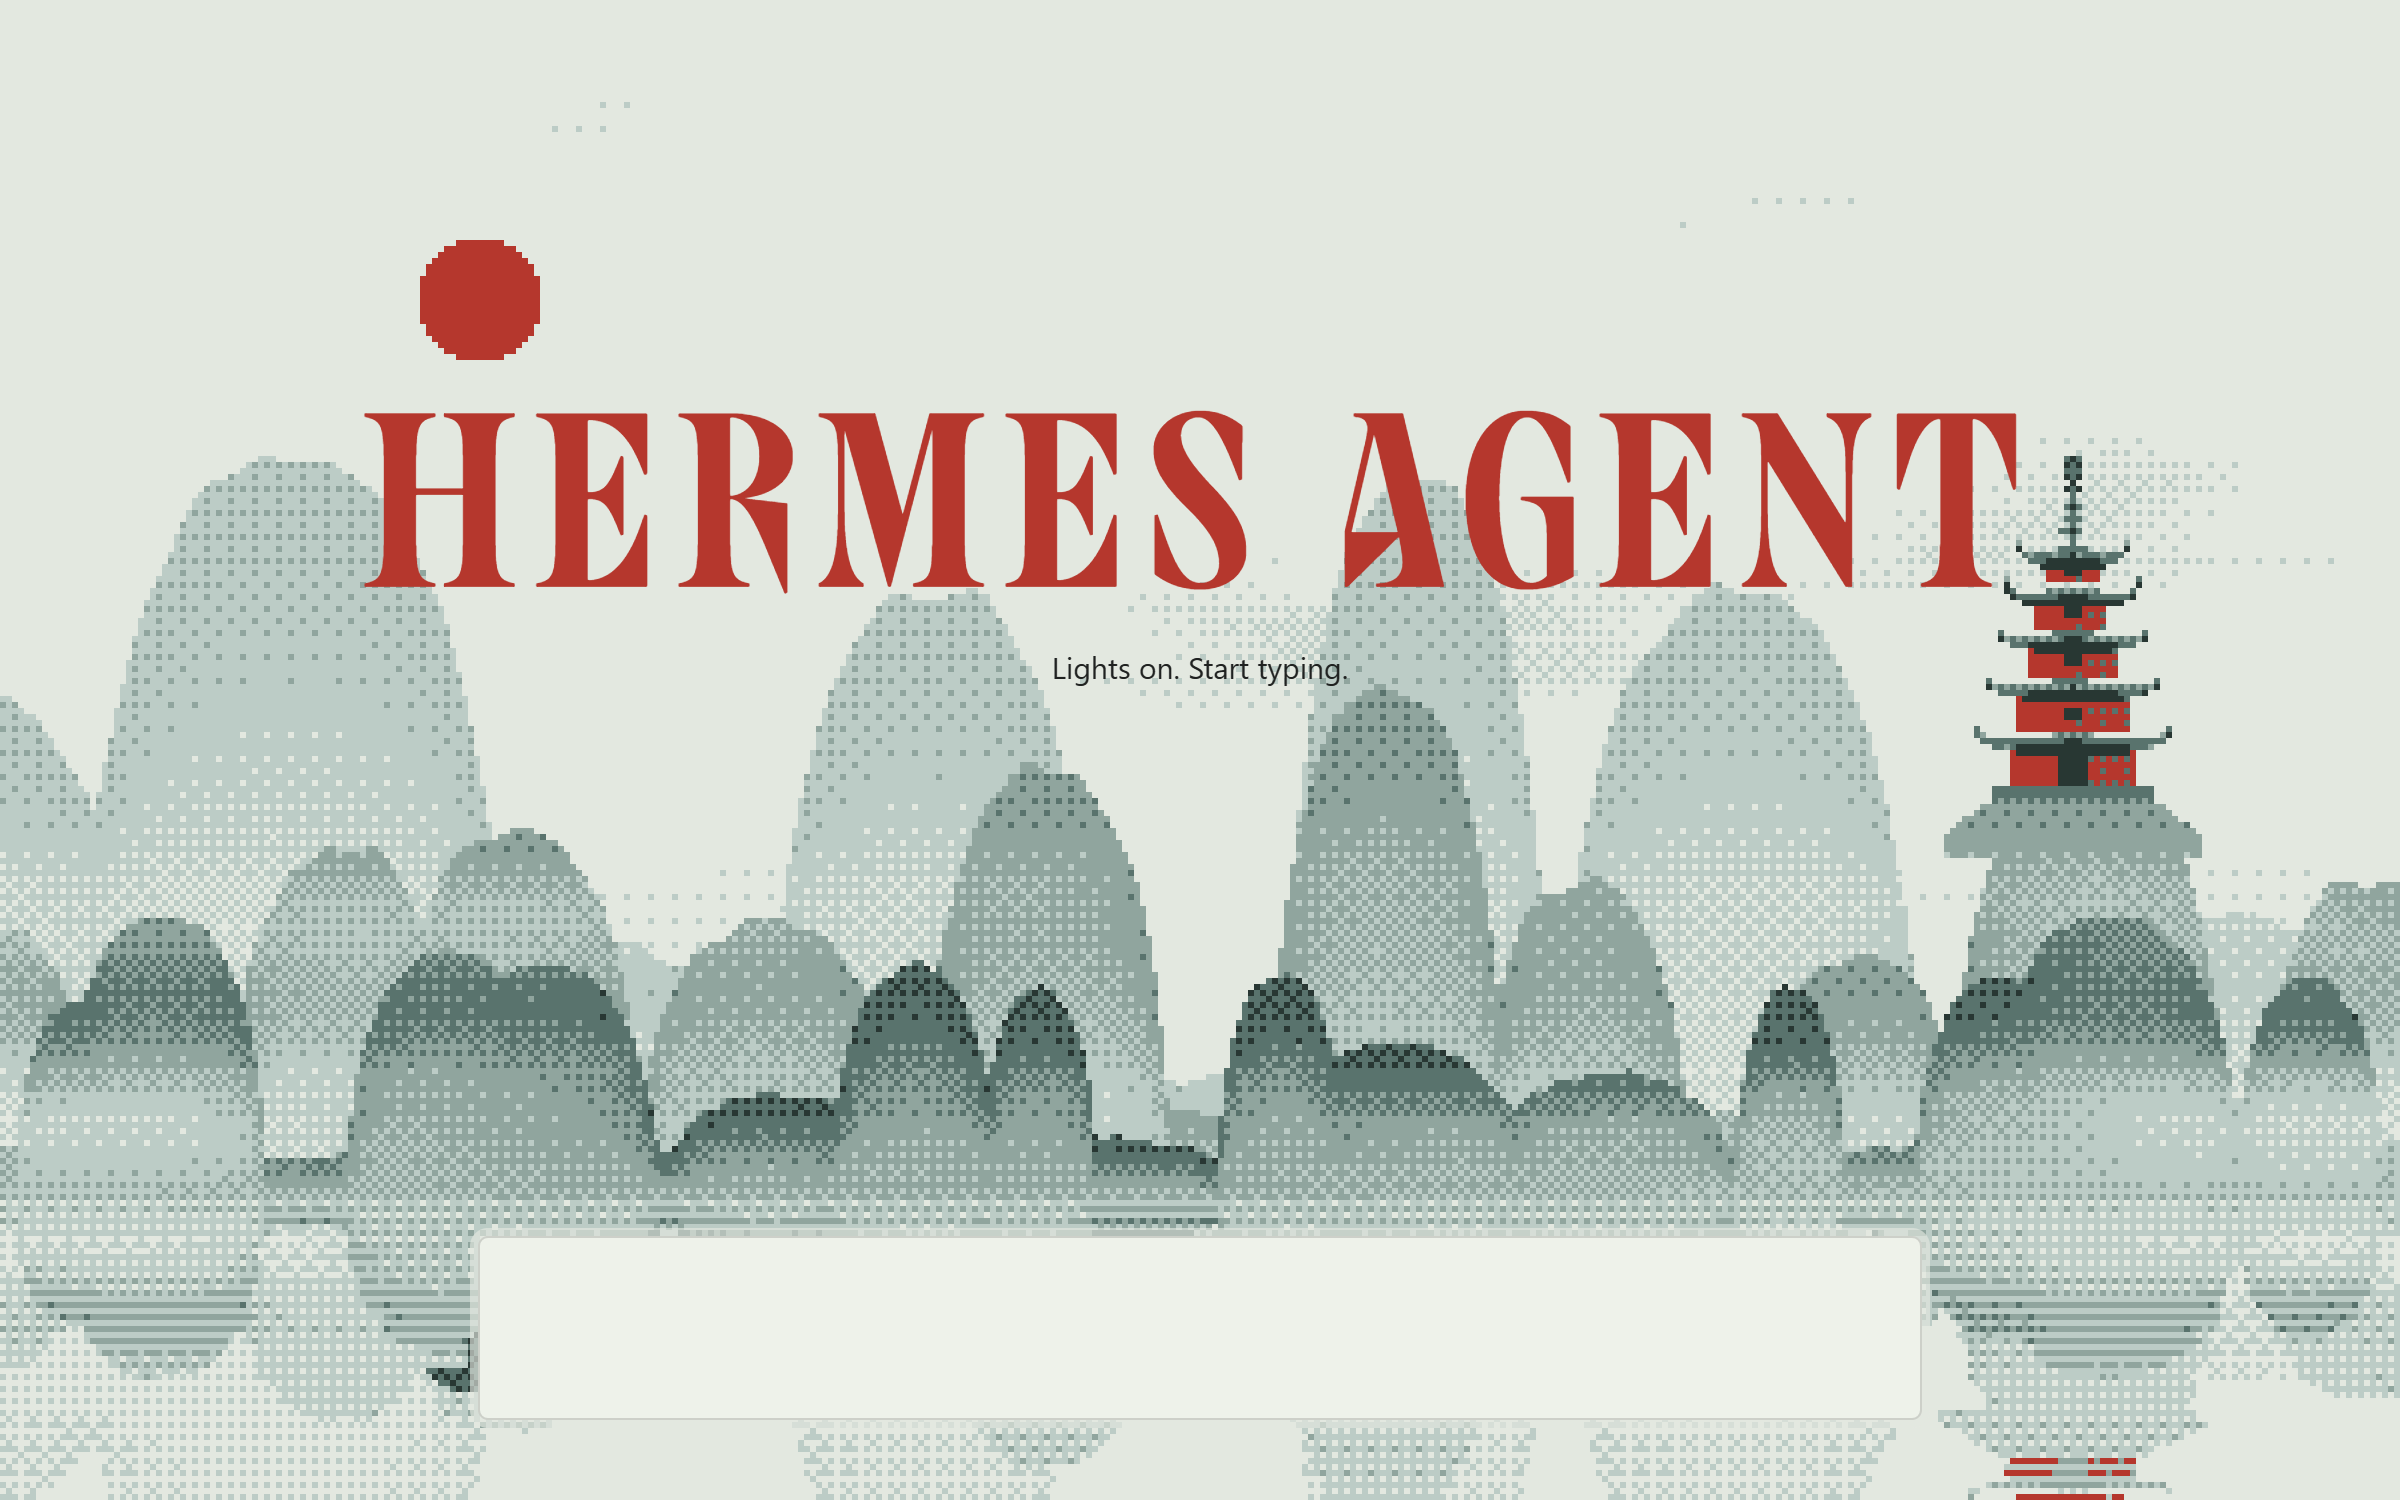
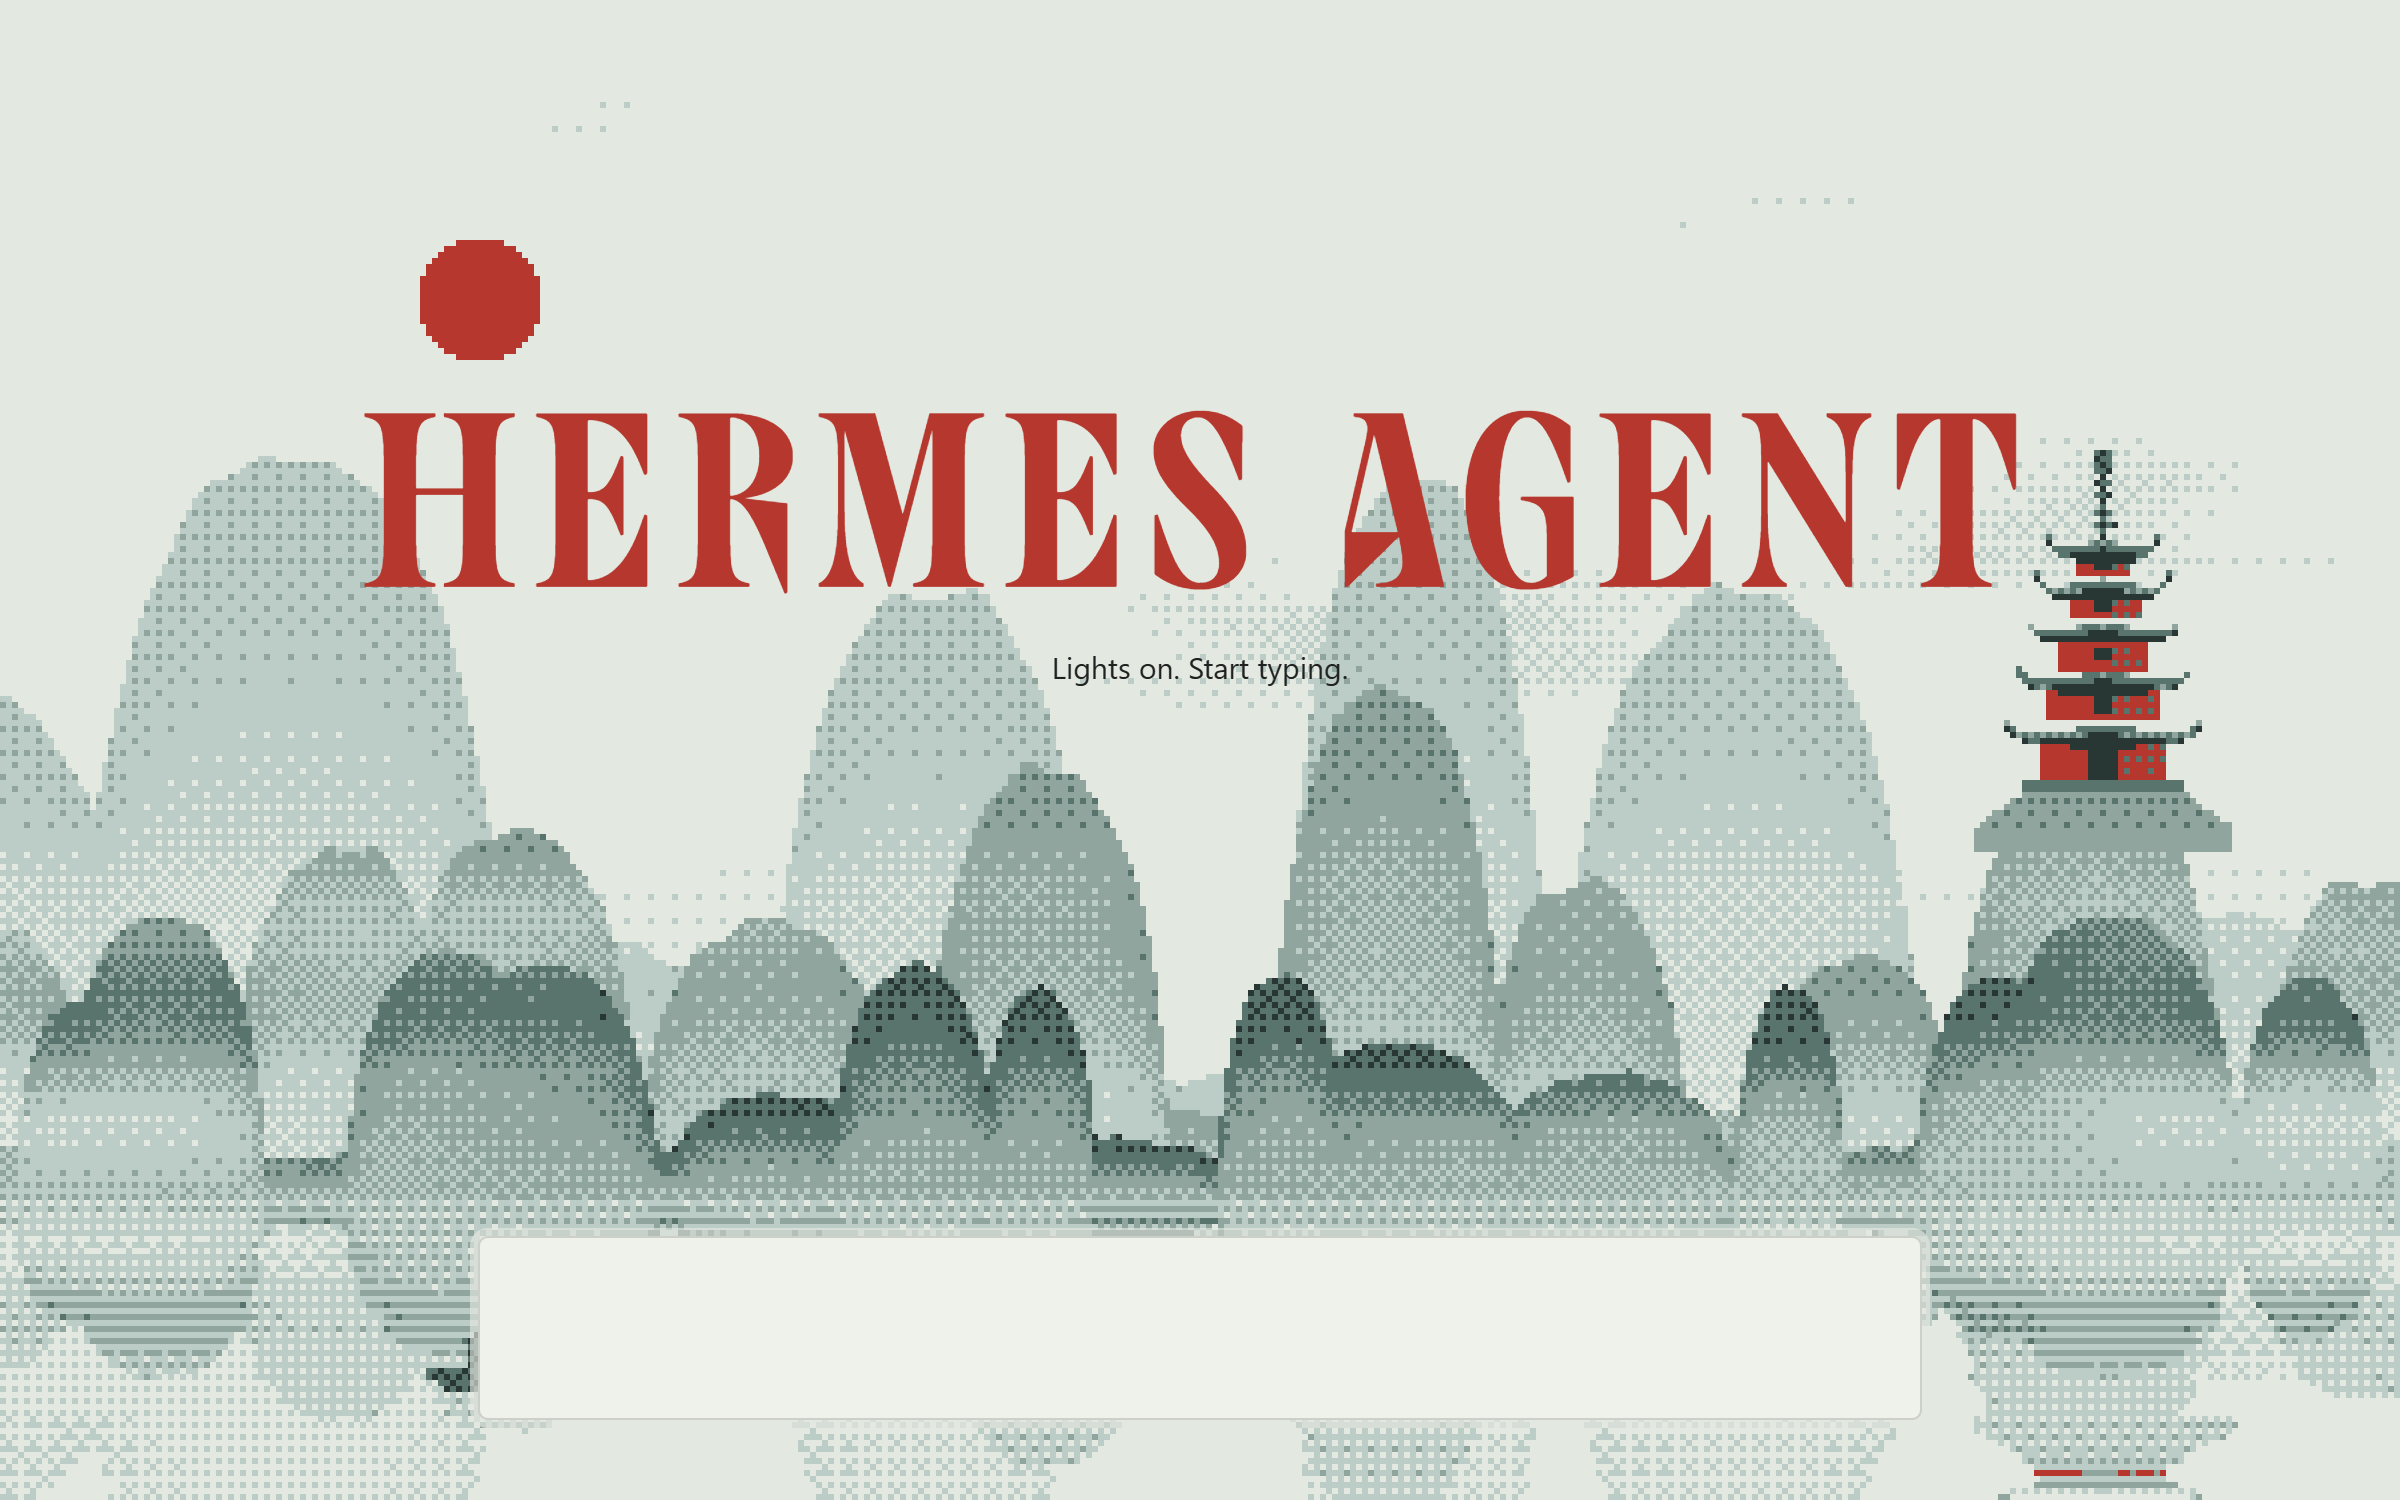
Keep the pagoda on one peak when the window is resized
Its crest search ran over a share of the window width, so a narrower window (a side pane, a resize) moved it to another peak. Search in scene units instead; test/pagoda_position.py checks the position across sizes, time and pointer.

Changed region(s): [[0.8125, 0.3067, 0.9375, 0.5827], [0.8125, 0.92, 0.9375, 1.0]]

diff --git a/desktop/plugin.js b/desktop/plugin.js
@@ -528,11 +528,13 @@ float scene(vec2 uv, float t, float rain, out float ground, out float acc) {
   }
 
   // the pagoda stands on the middle range, on the right, in that range's own (parallax) coordinates
-  // on the highest crest of that range between a fifth and two fifths of the way across
-  float px = 0.3 * aspect;
+  // on the highest crest of that range right of centre. The search range is in
+  // scene units (heights), not a share of the width, so resizing the window or
+  // opening a side pane never moves it to another peak.
+  float px = 0.45;
   float crest = 0.0;
-  for (int i = 0; i < 12; i++) {
-    float cx = (0.2 + 0.2 * float(i) / 11.0) * aspect;
+  for (int i = 0; i < 24; i++) {
+    float cx = 0.25 + 0.45 * float(i) / 23.0;
     float k = karst(cx * 2.8 + 23.0, 23.0, 0.5);
     if (k > crest) {
       crest = k;

diff --git a/test/harness.html b/test/harness.html
@@ -29,7 +29,9 @@
   const q = new URLSearchParams(location.search)
   const theme = q.get('theme') || 'cangfeng'
   const dark = q.get('mode') === 'dark'
+  // intro=0: a chat with text, so no empty-chat title and the scene fades back
   if (q.get('intro') !== '0') document.getElementById('intro').dataset.slot = 'aui_intro'
+  else document.getElementById('intro').hidden = true
   window.__jianghuTime = Number(q.get('t') || 0)
 
   const themes = {}

diff --git a/test/pagoda_position.py b/test/pagoda_position.py
@@ -1,0 +1,65 @@
+"""Check that the Cangfeng pagoda stays on the same peak when the window size, the clock or the pointer changes.
+
+uv run --with playwright --with pillow python test/pagoda_position.py
+Finds the cinnabar walls (light mode) above the horizon and prints their centre
+relative to the window centre, in units of the window height. All rows must agree.
+"""
+
+import functools
+import http.server
+import io
+import pathlib
+import threading
+
+from PIL import Image
+from playwright.sync_api import sync_playwright
+
+ROOT = pathlib.Path(__file__).resolve().parent.parent
+ACCENT = (0xB5, 0x37, 0x2D)
+
+
+class Quiet(http.server.SimpleHTTPRequestHandler):
+    def log_message(self, format, *args):
+        pass
+
+
+server = http.server.ThreadingHTTPServer(("127.0.0.1", 0), functools.partial(Quiet, directory=str(ROOT)))
+threading.Thread(target=server.serve_forever, daemon=True).start()
+base = f"http://127.0.0.1:{server.server_port}/test/harness.html?theme=cangfeng&mode=light"
+
+
+def centre(png, w, h):
+    data = Image.open(io.BytesIO(png)).convert("RGB").tobytes()
+    xs, ys = [], []
+    for y in range(int(h * 0.25), int(h * 0.75)):  # above the lake, below the sun
+        for x in range(w // 2, w):
+            i = (y * w + x) * 3
+            r, g, b = data[i], data[i + 1], data[i + 2]
+            if abs(r - ACCENT[0]) < 12 and abs(g - ACCENT[1]) < 12 and abs(b - ACCENT[2]) < 12:
+                xs.append(x)
+                ys.append(y)
+    if not xs:
+        return None
+    return round((sum(xs) / len(xs) - w / 2) / h, 3), round(1 - (sum(ys) / len(ys)) / h, 3), len(xs)
+
+
+rows = []
+with sync_playwright() as p:
+    browser = p.chromium.launch(
+        channel="chrome", headless=True, args=["--use-angle=swiftshader", "--enable-unsafe-swiftshader"]
+    )
+    for w, h, t, mouse in [(1400, 860, 120, None), (1100, 860, 120, None), (1800, 860, 120, None),
+                           (1400, 700, 120, None), (1400, 860, 200, None), (1400, 860, 120, 0)]:
+        page = browser.new_page(viewport={"width": w, "height": h})
+        page.goto(f"{base}&t={t}")
+        page.wait_for_function("document.title === 'ready'", timeout=30000)
+        page.evaluate("document.querySelector('.wordmark').style.visibility = 'hidden'")
+        if mouse is not None:
+            page.mouse.move(mouse, h / 2)
+            page.wait_for_timeout(1500)
+        rows.append(((w, h, t, mouse), centre(page.screenshot(), w, h)))
+        page.close()
+    browser.close()
+server.shutdown()
+for case, c in rows:
+    print(case, "->", c)
